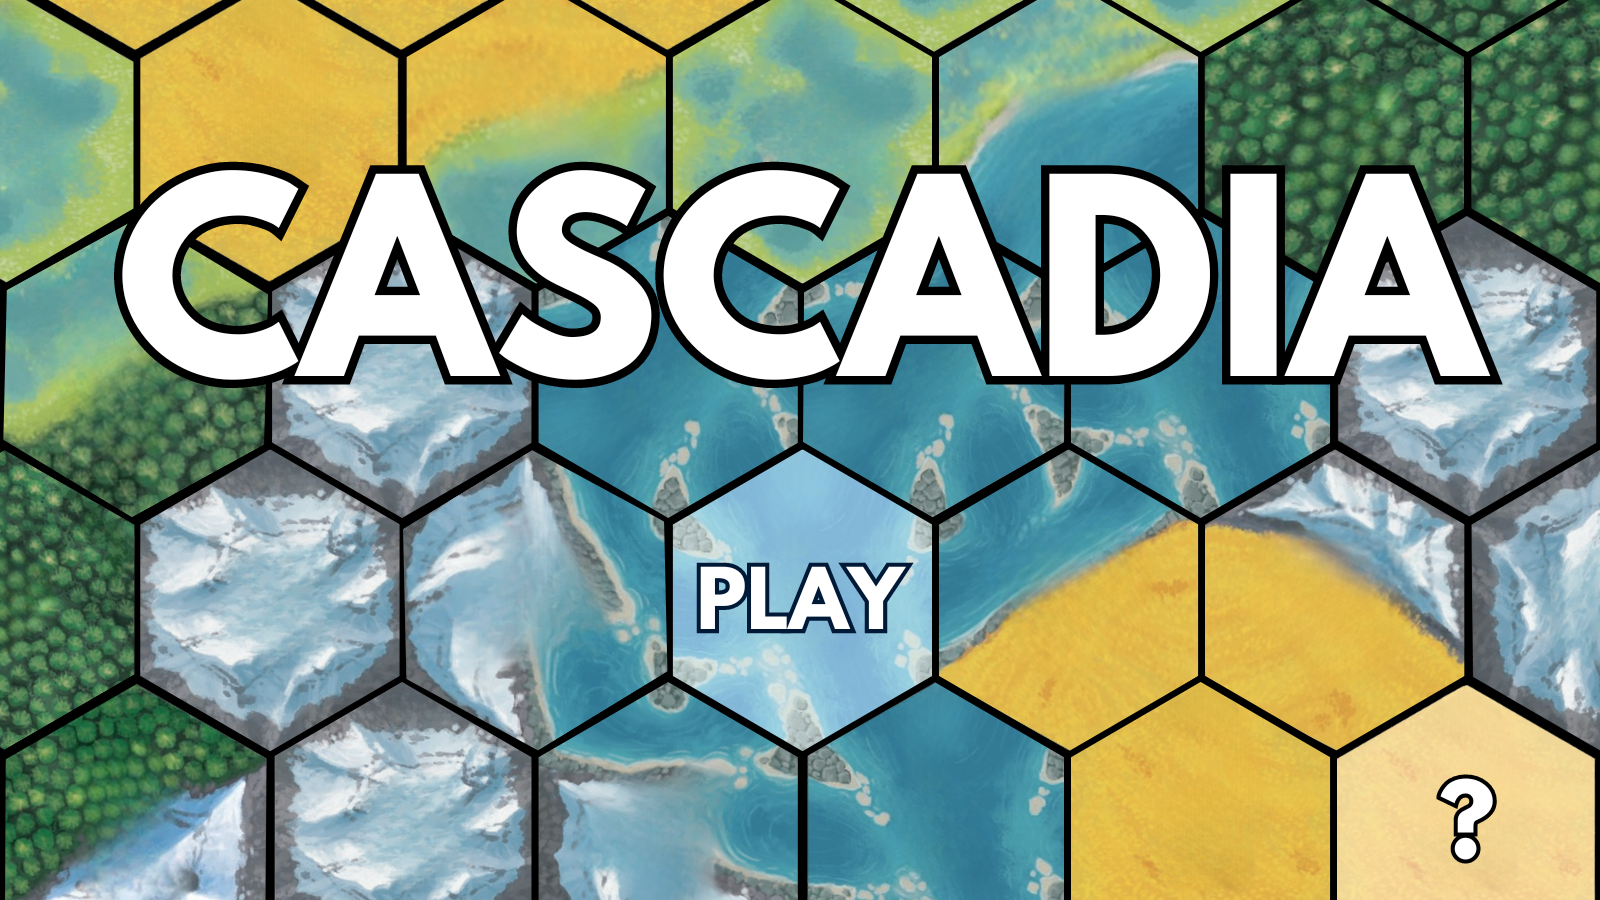
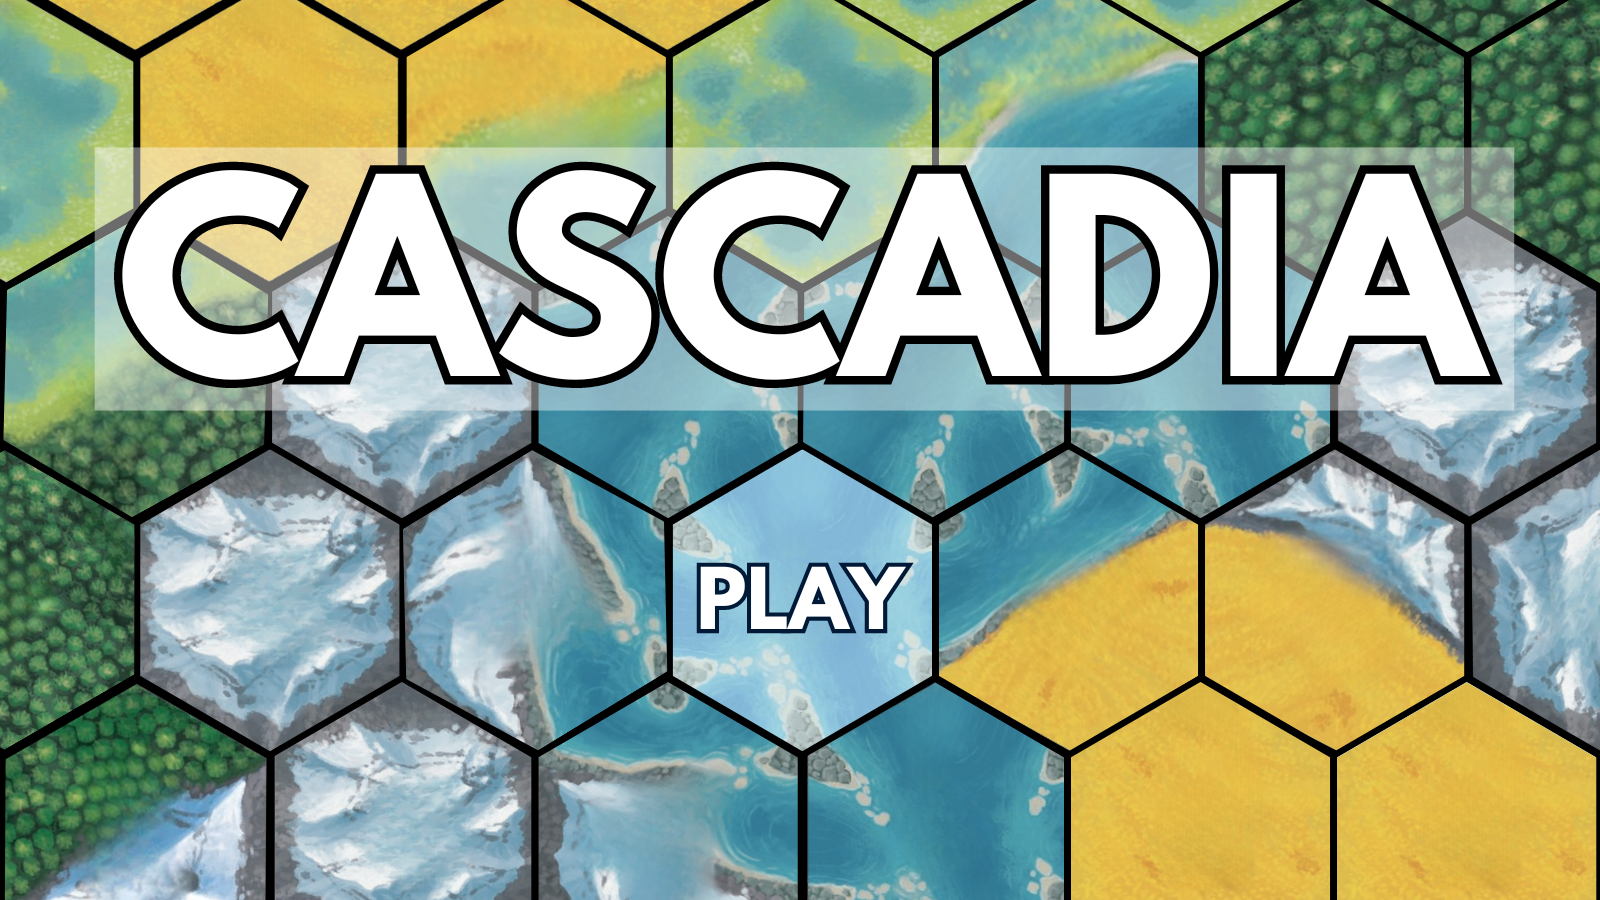
commented out instructions

Changed region(s): [[0.0312, 0.1556, 0.9688, 0.4667], [0.8125, 0.7467, 1.0, 1.0], [0.6875, 0.2489, 0.7188, 0.3733]]

diff --git a/src/Panels/StartPanel.java b/src/Panels/StartPanel.java
@@ -47,7 +47,8 @@ public class StartPanel extends JPanel implements MouseListener,ActionListener{
             difficultyOptions.add(new PointGenerator(530-265+(265*i), 580, 150.0));
         }
         hexagons.add(new PointGenerator(795, 575, 150.0));
-        hexagons.add(new PointGenerator(1460, 800, 150.0));
+        //also commented out bc gay
+        //hexagons.add(new PointGenerator(1460, 800, 150.0));
     }
     private void pullImages(){
         try{
@@ -175,11 +176,11 @@ public class StartPanel extends JPanel implements MouseListener,ActionListener{
                 state =100;
                 hexagons.clear();
                 repaint();
-            }else if (hexagons.get(1).isPointInsideHexagon(e)){
+            }/*else if (hexagons.get(1).isPointInsideHexagon(e)){ //commented out instructions bc gay
                 state =1;
                 GameStateEvent gse = new GameStateEvent(this, 100);
                 listener.process(gse);
-            }
+            }*/
         }else if (state==100){
             if (!difficultyLimit){
                 for(int i =0;i<difficultyOptions.size();i++){
